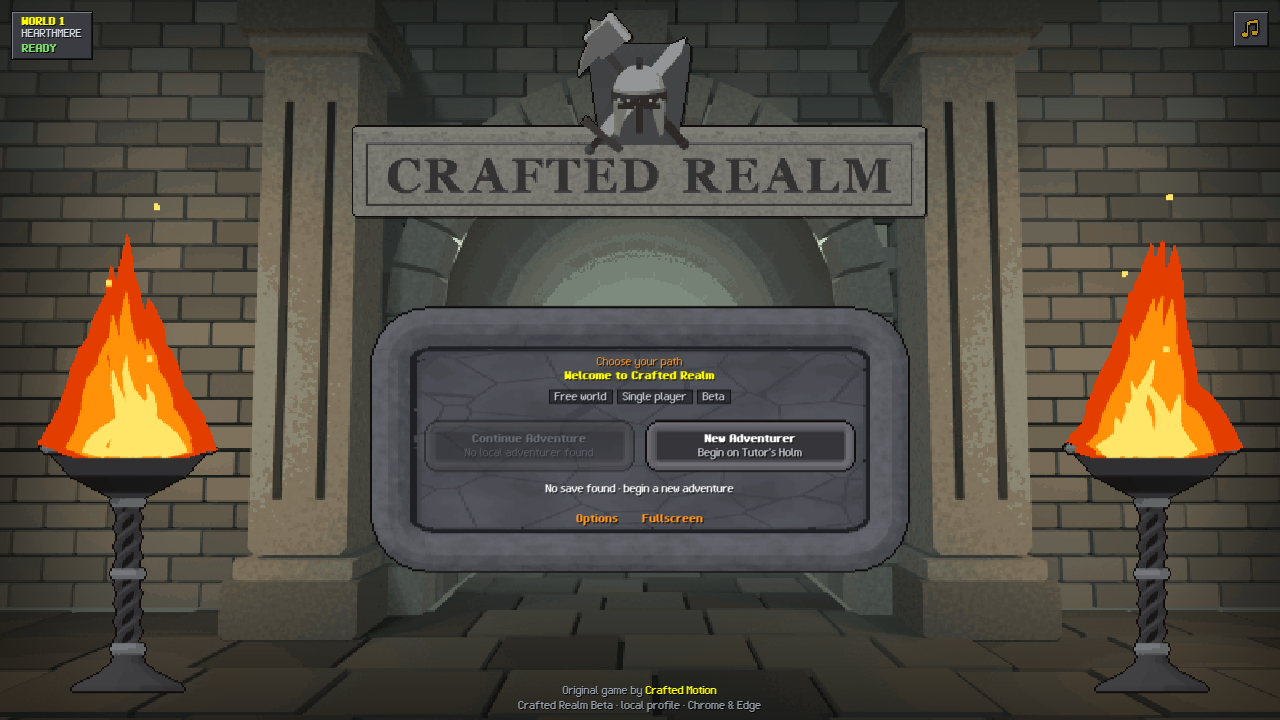
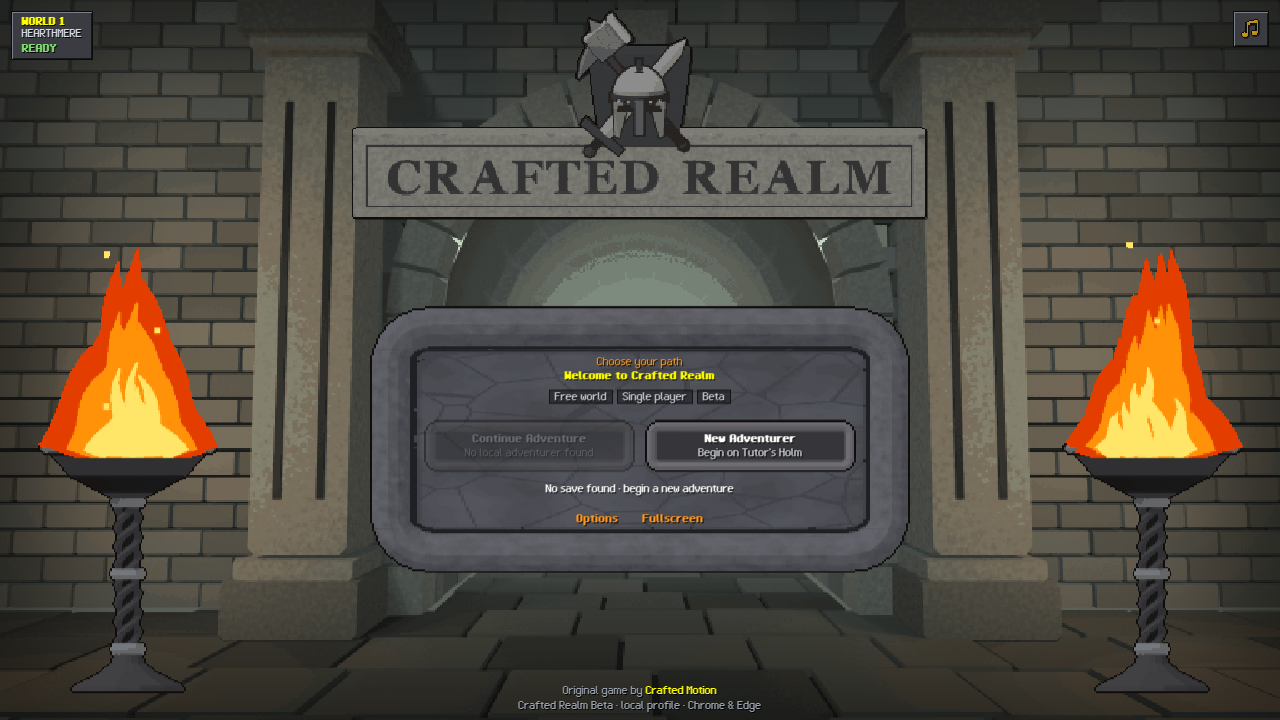
Login v4.2 pass 1: ink outlines round the helm, war hammer and sword; darker keystone; the note's continue is a blue link
- each emblem piece carries an inverted-hull ink shell, so the helm reads clearly in front of the crossing and every
  edge stays crisp at pixel size; nasal bar a solid darker steel
- 'Click here to continue' is the classic blue link, not a stone button

Changed region(s): [[0.2812, 0.0306, 0.7188, 0.3056], [0.0625, 0.3361, 0.1562, 0.6417], [0.8438, 0.3361, 0.9688, 0.6111]]

diff --git a/assets/ui/login_overhaul.css b/assets/ui/login_overhaul.css
@@ -42,7 +42,7 @@
 .login-crest{display:none;}
 #welcome-logo{position:static!important;display:block;margin:0 auto!important;transform:none!important;width:100%;height:auto;aspect-ratio:8/3;
   font-size:0!important;line-height:0!important;color:transparent!important;-webkit-text-fill-color:transparent!important;-webkit-text-stroke:0!important;
-  background:url("../icons/ui/v3/login/logo.png?v=6") center/contain no-repeat!important;image-rendering:pixelated;filter:none!important;text-shadow:none!important;}
+  background:url("../icons/ui/v3/login/logo.png?v=7") center/contain no-repeat!important;image-rendering:pixelated;filter:none!important;text-shadow:none!important;}
 #welcome-logo::after{display:none!important;}
 .login-subtitle{display:none;}
 

diff --git a/index.html b/index.html
@@ -489,7 +489,7 @@
   #build-stamp.min{font-size:0;padding:5px 6px;}
   #build-stamp.min:before{content:'\25CF';font-size:11px;}  /* collapsed: a single dot */
 </style>
-<link rel="stylesheet" href="assets/ui/login_overhaul.css?v=20">
+<link rel="stylesheet" href="assets/ui/login_overhaul.css?v=21">
 </head>
 <body>
 <canvas id="game-canvas"></canvas>

diff --git a/tools/blender/build_login_art_v4.py b/tools/blender/build_login_art_v4.py
@@ -32,7 +32,7 @@ PAL = {
     'n_pillar': (.55, .58, .57), 'n_pillar_dk': (.42, .45, .44), 'n_arch': (.53, .56, .55), 'vault': (.40, .41, .40), 'groove': (.22, .22, .22),
     'e_mist': (.80, .86, .80), 'iron': (.34, .34, .36), 'iron_dk': (.18, .18, .19), 'steel': (.62, .64, .67),
     'e_fire_dk': (.84, .26, .04), 'e_fire': (1.0, .58, .10), 'e_fire_core': (1.0, .90, .46), 'e_ember': (1.0, .62, .18), 'coal': (.14, .10, .08),
-    'n_slab': (.72, .72, .70), 'ink': (.10, .09, .09), 'n_lintel': (.66, .66, .64), 'cut': (.30, .30, .31), 'n_key': (.38, .39, .40), 'key': (.37, .38, .40), 'key_dk': (.28, .29, .31), 'helm_dk': (.52, .54, .58), 'band': (.26, .26, .28), 'helm': (.80, .82, .85), 'chip': (.56, .56, .54), 'wood': (.50, .32, .16), 'wood_dk': (.30, .19, .09), 'e_lamp': (1.0, .84, .38), 'brass': (.80, .60, .26),
+    'n_slab': (.72, .72, .70), 'ink': (.10, .09, .09), 'n_lintel': (.66, .66, .64), 'cut': (.30, .30, .31), 'n_key': (.38, .39, .40), 'key': (.31, .32, .34), 'key_dk': (.24, .25, .27), 'helm_dk': (.52, .54, .58), 'band': (.26, .26, .28), 'helm': (.80, .82, .85), 'chip': (.56, .56, .54), 'wood': (.50, .32, .16), 'wood_dk': (.30, .19, .09), 'e_lamp': (1.0, .84, .38), 'brass': (.80, .60, .26),
     'n_rim': (.50, .51, .55), 'v_marble': (.44, .45, .50), 'rim_groove': (.16, .16, .18),
     'btn_face': (.30, .30, .33), 'btn_face_hi': (.40, .40, .44), 'btn_face_red': (.42, .15, .10), 'btn_face_red_hi': (.52, .20, .13), 'btn_face_off': (.22, .22, .23),
     'btn_rim': (.56, .56, .60), 'btn_rim_red': (.62, .40, .34), 'btn_rim_off': (.40, .40, .42),
@@ -384,12 +384,25 @@ def emblem_helm(c, s=1.0):
     m.lathe([(.45, .0), (.46, .1), (.45, .2)], 20, 'band')
     for a in [math.pi * (1.25 + .125 * k) for k in range(5)]:
         m.sph((math.cos(a) * .46, math.sin(a) * .46, .1), .032, 'helm', 5, 3)
-    m.hull(cbox((0, -.44, -.14), (.06, .045, .28), .02), 'band')              # nasal
+    m.hull(cbox((0, -.44, -.14), (.07, .05, .28), .02), 'helm_dk')           # nasal
     for sx in (-1, 1):                                                         # cheek plates
         m.hull([Vector((sx * x, y, z)) for x in (.2, .42) for y in (-.37, -.2) for z in (-.02, .08)] + [Vector((sx * .32, -.29, -.5)), Vector((sx * .4, -.2, -.48))], 'steel')
         m.box((sx * .21, -.41, .0), (.13, .02, .035), 'ink')                   # eye slit
     m.hull(cbox((0, .0, .64), (.055, .32, .05), .02), 'band')                 # crest ridge
     ob = to_object(m, 'helm'); ob.location = c; ob.scale = (s, s, s); return ob
+def ink_shell(ob, t=.03):
+    """an ink outline round one object (the inverted-hull trick): a Solidify shell pushed outward, normals flipped, in a
+    black material that hides its front faces, so every piece of the emblem keeps a crisp dark edge at pixel size"""
+    ink = bpy.data.materials.get('ink_shell')
+    if not ink:
+        ink = bpy.data.materials.new('ink_shell'); ink.use_nodes = True; nt = ink.node_tree
+        for n in list(nt.nodes): nt.nodes.remove(n)
+        em = nt.nodes.new('ShaderNodeEmission'); em.inputs['Color'].default_value = (.008, .007, .006, 1); out = nt.nodes.new('ShaderNodeOutputMaterial')
+        nt.links.new(em.outputs[0], out.inputs['Surface']); ink.use_backface_culling = True
+    ob.data.materials.append(ink)
+    md = ob.modifiers.new('ink', 'SOLIDIFY'); md.thickness = t / max(ob.scale); md.offset = 1.0; md.use_flip_normals = True
+    md.material_offset = len(ob.data.materials) - 1; md.use_rim = False
+    return ob
 def carve(target, cutters, mat_name='cut', tolerant=True):
     """boolean-subtract each cutter mesh from target in turn (EXACT solver); the cut faces take mat_name.
     tolerant=False tries the strict solve first (it keeps letter counters) and falls back to the hole-tolerant one when
@@ -482,10 +495,10 @@ def render_logo():
     # it on every side, so the helm clearly sits over the crossing
     cz = kz + .12; a = math.radians(40)
     d = Vector((math.sin(a), 0, math.cos(a))); ss = 1.3        # sword: pommel lower-left, point upper-right
-    obs.append(emblem_sword(tuple(Vector((0, -.55, cz)) - d * 1.0 * ss), ss, rot=(0, 40, 0)))
+    obs.append(ink_shell(emblem_sword(tuple(Vector((0, -.55, cz)) - d * 1.0 * ss), ss, rot=(0, 40, 0))))
     d2 = Vector((-math.sin(a), 0, math.cos(a))); hs = 1.02     # war hammer: butt lower-right, head upper-left
-    obs.append(emblem_hammer(tuple(Vector((0, -.5, cz)) - d2 * 1.08 * hs), hs, rot=(0, -40, 0)))
-    obs.append(emblem_helm((0, -1.4, kz + .08), 1.0))
+    obs.append(ink_shell(emblem_hammer(tuple(Vector((0, -.5, cz)) - d2 * 1.08 * hs), hs, rot=(0, -40, 0))))
+    obs.append(ink_shell(emblem_helm((0, -1.4, kz + .08), 1.0), .035))
     ortho_render('logo', obs, 1600, 600, el=9, yaw=0, key_e=1.0, amb=.34, shadows=False)
     for o in obs: bpy.data.objects.remove(o, do_unlink=True)
     MANIFEST.append({'name': 'logo', 'raw': 'logo.png', 'kind': 'sprite', 'out': {'w': 400, 'h': 150}, 'file': 'login/logo.png', 'colors': 26})
